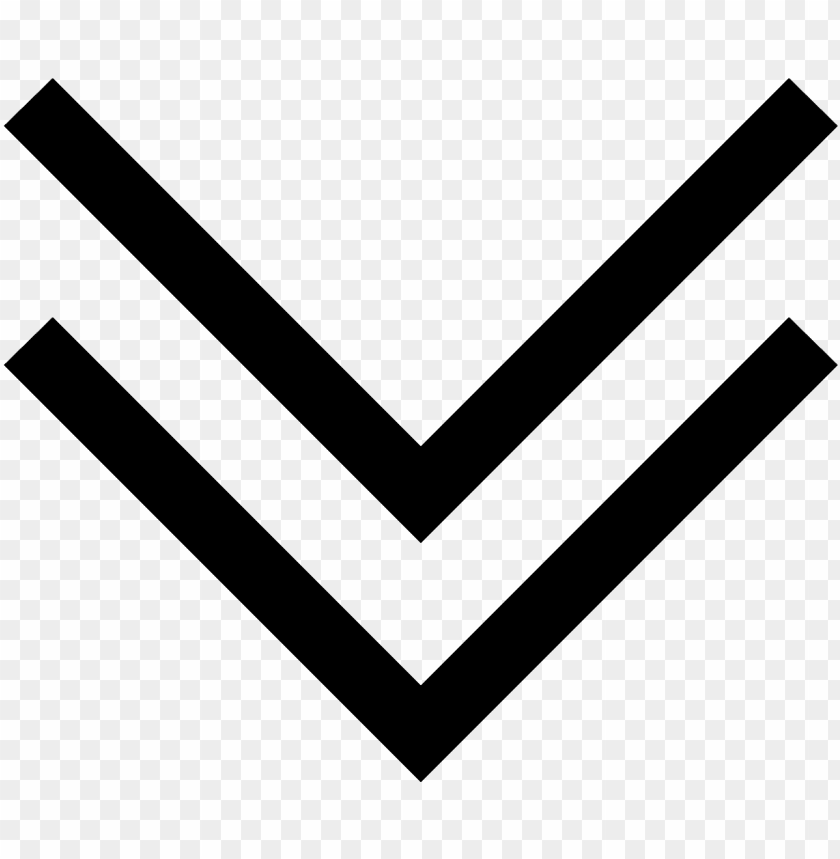
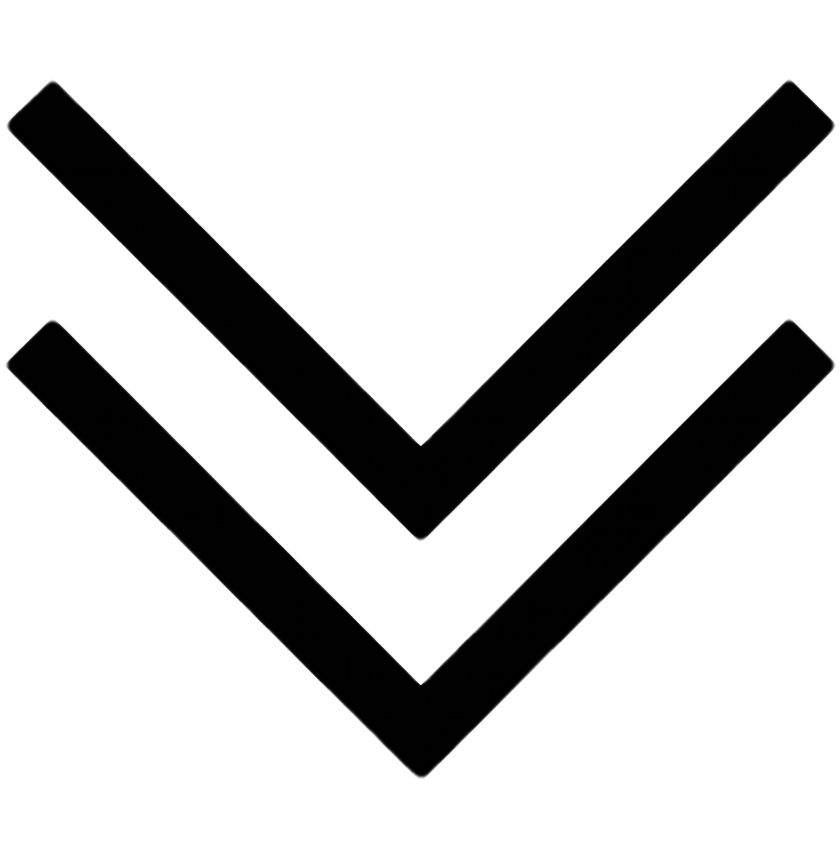
removed background in image

diff --git a/portfolio/src/components/projects/Projects.scss b/portfolio/src/components/projects/Projects.scss
@@ -10,6 +10,7 @@
     height: 55px;
     position:absolute;
     color: white;
+    filter: brightness(0) invert(1);
     &.left{
       left:100px;
       transform: rotateY(180deg);

diff --git a/portfolio/src/components/intro/Intro.scss b/portfolio/src/components/intro/Intro.scss
@@ -11,6 +11,7 @@
     img{
       animation: arrowBlink 1.39s infinite;
       width: 19px;
+      filter: brightness(0) invert(1);
     }
   }
   .wrapper {
